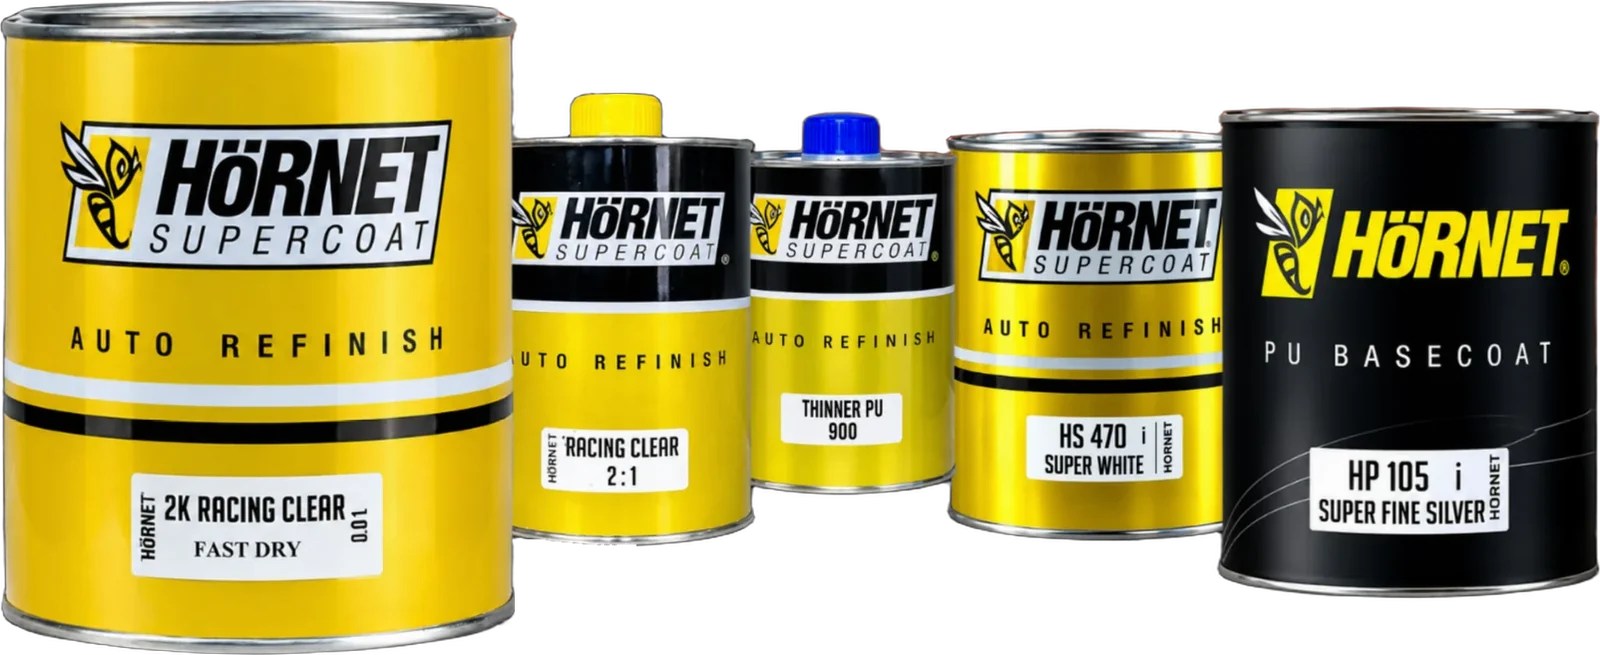
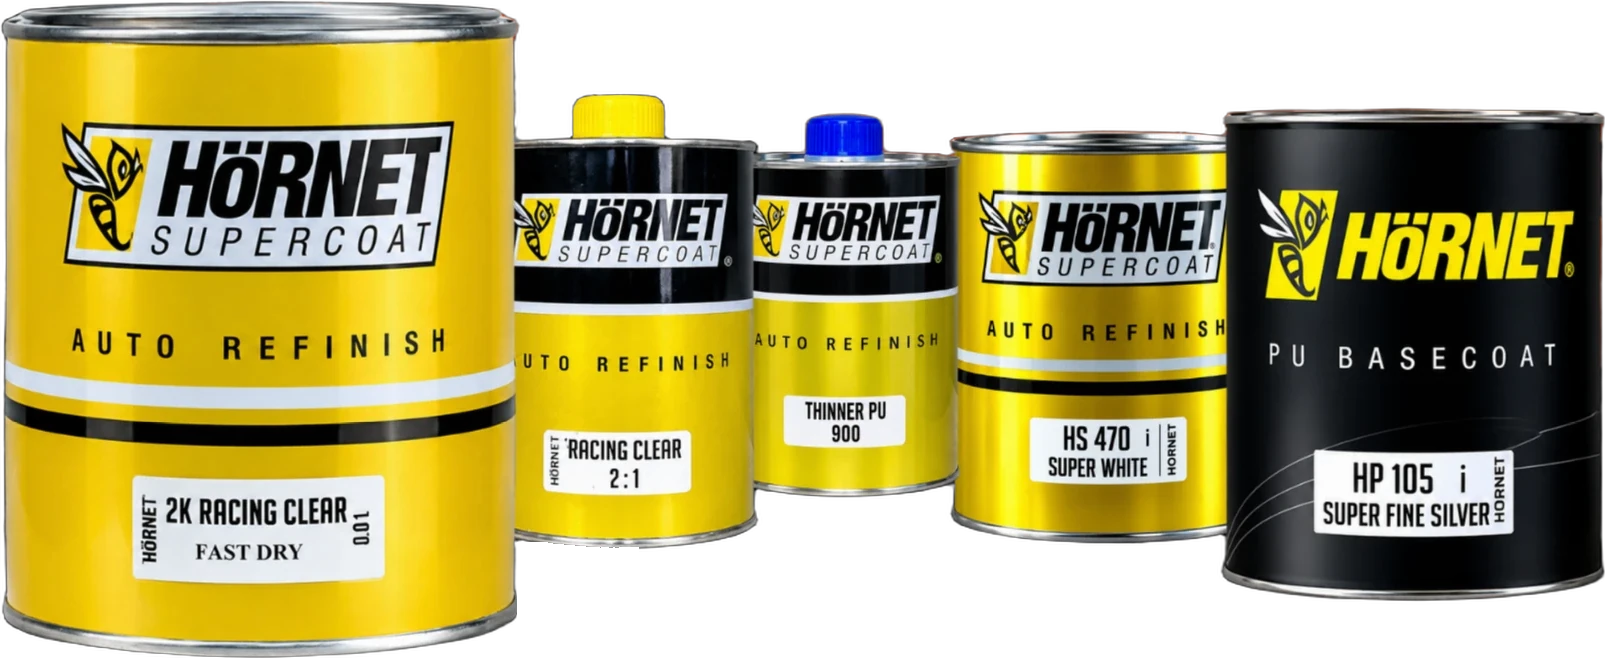
[development][1.20.1] sharper hero lineup with responsive sizes
Re-cut the cans from the higher-quality lineup photo at its full resolution
(1605px wide) and add 800/1200px copies (hero.lineup.smaller), served as a
srcSet so phones download the small file and retina screens the full one.

Claude-Session: https://claude.ai/code/session_01P7H63vv6HAtg1gbggxpW76

diff --git a/src/pages/home/Home.tsx b/src/pages/home/Home.tsx
@@ -72,6 +72,16 @@ const FEATURED = content.featuredProducts.map((code) => productByCode(code)!);
 // Product featured in the hero: its photo fills the hero frame
 const HERO_PRODUCT = productByCode(HERO.productCode);
 
+// Every size of the lineup cutout; the browser picks by screen width and pixel density
+const HERO_LINEUP_SRCSET = HERO.lineup
+    ? [...(HERO.lineup.smaller ?? []), { image: HERO.lineup.image, width: HERO.lineup.width }]
+          .map(({ image, width }) => `${image} ${width}w`)
+          .join(", ")
+    : undefined;
+// Drawn width of the cans: 106-110% of the stage, which is near full width on phones,
+// up to 720px from --large and 860px from --xxlarge (see .hero__stage)
+const HERO_LINEUP_SIZES = "(min-width: 1601px) 950px, (min-width: 961px) 800px, 100vw";
+
 // Empty grid cells after the last result, filled with ornaments. Three columns: the
 // big tile takes 4 cells, so n results use n + 3. Two columns: it's a full-width banner,
 // then the other n - 1 tiles in pairs. One column (phones) never has a gap.
@@ -132,6 +142,8 @@ function Home() {
                                     className="hero__stage-cans"
                                     src={HERO.lineup.image}
                                     alt={HERO.lineup.alt}
+                                    srcSet={HERO_LINEUP_SRCSET}
+                                    sizes={HERO_LINEUP_SIZES}
                                     width={HERO.lineup.width}
                                     height={HERO.lineup.height}
                                     fetchPriority="high"

diff --git a/src/content/index.ts b/src/content/index.ts
@@ -38,6 +38,8 @@ export interface HeroLineup {
     // Pixel size of the image, so the page reserves its space before it loads
     width: number;
     height: number;
+    // Downscaled copies of `image`, so phones don't download the full size
+    smaller?: { image: string; width: number }[];
     sticker: string;
 }
 
@@ -253,6 +255,12 @@ function validate(raw: unknown, codes: string[]): HomeContent {
         ["image", "alt", "sticker"].forEach((key) => text(lineup, key, "hero.lineup"));
         number(lineup, "width", "hero.lineup", false, 1);
         number(lineup, "height", "hero.lineup", false, 1);
+        if (lineup.smaller !== undefined) {
+            each(lineup.smaller, "hero.lineup.smaller", (item, path) => {
+                text(item, "image", path);
+                number(item, "width", path, false, 1);
+            });
+        }
     }
 
     each(root.features, "features", (item, path) => {

diff --git a/CLAUDE.md b/CLAUDE.md
@@ -4,7 +4,7 @@ This file provides guidance to Claude Code (claude.ai/code) when working with co
 
 ## Project
 
-Website for the **Dumons Coating – Hornet lineup** (a sub-product of Dumons Coating), served at `https://hornet.dumonscoating.com/home`. The main Dumons Coating site is a separate Vue project at `C:\Users\hanif\Documents\dumons-netlify` (`https://dumonscoating.com/home`); Hornet uses Roboto Condensed Black Italic for display text (headings, buttons, tags, stickers; closest match to the logo wordmark) and Helvetica (`"Helvetica Neue", Helvetica, Arial, sans-serif`) for body text. The display font is self-hosted (`public/assets/fonts/roboto-condensed-italic-latin.woff2`: variable weight, italic only, latin subset), declared with `@font-face` + preload in `render.tsx`'s `<head>` (not in CSS, so css-loader doesn't try to bundle the url), so every `--font-display` use must also set `font-style: italic`. The site is in Indonesian (`lang="id"`): a landing page (`/home`) and the product catalog (`/produk`, `src/pages/products`: page heading from `page` in `products.json`, every product as a card (1/2/3 columns, a row with fewer products than columns is centered rather than left with a hole), a "Bingung pilih?" band with WhatsApp/Shopee) with a detail page per product (`/produk/<slug>`, `src/pages/product-detail`, prerendered via `getStaticPaths`, unknown slugs render NotFound: square photo (pinned while scrolling from `--large`; stacked below it, capped to fit the screen, and a tap on a swatch scrolls it fully into view when it's cut off, while keyboard picks never scroll) with code sticker and a chip naming the chosen color, a color picker (`colors`: radio buttons drawn as skewed swatches; the chosen color's `image`, else the product's, else a placeholder filled with its `hex`), power meters, "Pesan via WhatsApp" prefilled with product + color, Shopee, then "Produk lainnya"; the picker is hidden when `colors` is empty). Every Shell page has the same site-wide header nav (`SITE_NAV` in `src/components/shell/nav.ts`): each item is a page (`path`, e.g. Produk -> `/produk`, highlighted on it and on pages under it, `aria-current` on the page itself) or a home section (`path` + `section`); Shell renders a section on the current page as a plain `#id` anchor (native smooth scroll) and everything else as a router `Link` (`/home#faq` from another page), home sections hidden while empty drop out, and there is a "Menu" panel below `--large`. Router links don't scroll on their own, so `ScrollToLocation` in `App.tsx` jumps to the top (or to the `#section`) after PUSH/REPLACE navigation and leaves POP (back/forward, first load, plain anchors) to the browser. Home has: a floating WhatsApp button (`src/components/whatsapp-float`: shown after the first screen, hidden while `#kontak` is in view), hero (`hero.lineup`: the transparent cutout of the whole can lineup, `public/assets/hornet-lineup.webp`, die-cut on a dark poster-style stage with yellow wedges, white slashes, an outlined "HÖRNET" and a yellow plinth, plus a sticker; without `lineup` it falls back to the product named in `hero.productCode` (a code from `products.json`): its `image`, or a hatched placeholder with the hornet mark until set; "Lihat produk" button scrolls to `#produk`), features, trust numbers (`stats`, ink band; PLACEHOLDER figures that must be replaced with real ones before launch; each counts up once on first view via `src/components/count-up`, which server-renders the final value; section hidden when empty), promotions (`promotions`: one poster image per promo, each linking to WhatsApp with its `alt` prefilled; placeholders in `public/assets/promos/` until the real posters exist; any count and any orientation via justified rows sized from each image's `width`/`height` (layout ratio clamped to 9:16..2.2:1, extremes shown whole on a hatched background), never cropped; section hidden when empty; opened by a scrolling ticker and the mascot), highlighted products (`featuredProducts`: exactly two codes, side by side from `--medium`, stacked on phones, then a "Lihat semua produk" button to `/produk`; cards are `src/components/product-card`, shared with `/produk`: a square image canvas (hatched hornet-mark placeholder until `image` is set), code sticker, 1..5 power meters, and a "Lihat detail" link to its detail page; the second product is a placeholder), customer reviews (`reviews`: quote, name, company, city, year, optional `photo` (initials until set) and `rating` (1..5 stars); any count, placeholders for now; section hidden when empty; carousel in `src/components/reviews`: one per slide on a scroll-snap track (native swipe), arrows + dots (a button/dot/autoplay move sets the index once and scroll events are ignored until the track arrives, so the counter never flickers; a one-slide move scrolls smoothly, a longer jump such as the wrap from last to first fades out, jumps and fades back in), autoplay every 7s that any manual switch stops for 3 minutes, off under `prefers-reduced-motion`; the band is dressed with halftone, a giant outlined quote, twinkling sparkles, chips and a spinning rubber stamp, and each card has a paper stack behind it and a numbered tape strip), results gallery (`results`: surface label, caption, the product code used and an optional `photo` of the coated surface (cropped to fill, hatched placeholder until set); the product's transparent `cutout` (hornet mark until set) stands die-cut on each photo; bento grid with the first tile big (2x2 on three columns, a 16:9 banner on two, plain on phones); the leftover cells of the last row get free-floating ornaments, no tile around them (mascot asking "Giliran mobilmu?", a "Kilau!" sticker on halftone, sparkles, chips), counted per layout in `Home.tsx`, so any count looks complete; section hidden when empty), partner workshops (`partners`, `#mitra`, yellow band: name, city, address, optional `mapsUrl`/`whatsappUrl`; PLACEHOLDERS for now; `src/components/partners` adds city filter chips and shows 9 until "Lihat semua"; "Jadi mitra" button opens WhatsApp with a prefilled message; section hidden when empty), FAQ (`faqs`, `#faq`: questions about the Hörnet line as a whole, since usage steps belong on each product's future detail page; answers marked PLACEHOLDER need real facts; native `<details>` accordion, plus a schema.org `FAQPage` JSON-LD script built from the same list; section hidden when empty), contact CTA (WhatsApp button, "Beli di Shopee" button, and WhatsApp/Shopee/email rows), footer (logo, Instagram and main-site links, copyright). Editable content lives in two JSON files (their `_petunjuk` notes explain editing them, in Indonesian); keep data out of the page components: `src/content/products.json` is the product catalog (`/produk` page copy and `products`, referenced everywhere else by `code`), `src/content/home.json` everything else on `/home` (contacts, hero copy, features, stats, ticker words, promotions, featured product codes, reviews, results, partners, FAQ). `src/content/index.ts` types both (`catalog`, `content`, `productByCode`) and validates them at load (unique codes and slugs, slug and `#rrggbb` formats; every code used in home.json must exist in the catalog): the build uses Babel (no type checking), so a missing/mistyped field throws while prerendering and fails the Netlify build with a message like `src/content/home.json: reviews #2.year harus berupa angka`. Feature icons are keys (`sparkle`/`drop`/`shield`/`spray`) mapped to SVG in `Home.tsx`. `/under-construction` is a standalone holding page (no Shell, English copy) and the only page on Netlify production deploys while `MAINTENANCE_MODE` is on (see Routing).
+Website for the **Dumons Coating – Hornet lineup** (a sub-product of Dumons Coating), served at `https://hornet.dumonscoating.com/home`. The main Dumons Coating site is a separate Vue project at `C:\Users\hanif\Documents\dumons-netlify` (`https://dumonscoating.com/home`); Hornet uses Roboto Condensed Black Italic for display text (headings, buttons, tags, stickers; closest match to the logo wordmark) and Helvetica (`"Helvetica Neue", Helvetica, Arial, sans-serif`) for body text. The display font is self-hosted (`public/assets/fonts/roboto-condensed-italic-latin.woff2`: variable weight, italic only, latin subset), declared with `@font-face` + preload in `render.tsx`'s `<head>` (not in CSS, so css-loader doesn't try to bundle the url), so every `--font-display` use must also set `font-style: italic`. The site is in Indonesian (`lang="id"`): a landing page (`/home`) and the product catalog (`/produk`, `src/pages/products`: page heading from `page` in `products.json`, every product as a card (1/2/3 columns, a row with fewer products than columns is centered rather than left with a hole), a "Bingung pilih?" band with WhatsApp/Shopee) with a detail page per product (`/produk/<slug>`, `src/pages/product-detail`, prerendered via `getStaticPaths`, unknown slugs render NotFound: square photo (pinned while scrolling from `--large`; stacked below it, capped to fit the screen, and a tap on a swatch scrolls it fully into view when it's cut off, while keyboard picks never scroll) with code sticker and a chip naming the chosen color, a color picker (`colors`: radio buttons drawn as skewed swatches; the chosen color's `image`, else the product's, else a placeholder filled with its `hex`), power meters, "Pesan via WhatsApp" prefilled with product + color, Shopee, then "Produk lainnya"; the picker is hidden when `colors` is empty). Every Shell page has the same site-wide header nav (`SITE_NAV` in `src/components/shell/nav.ts`): each item is a page (`path`, e.g. Produk -> `/produk`, highlighted on it and on pages under it, `aria-current` on the page itself) or a home section (`path` + `section`); Shell renders a section on the current page as a plain `#id` anchor (native smooth scroll) and everything else as a router `Link` (`/home#faq` from another page), home sections hidden while empty drop out, and there is a "Menu" panel below `--large`. Router links don't scroll on their own, so `ScrollToLocation` in `App.tsx` jumps to the top (or to the `#section`) after PUSH/REPLACE navigation and leaves POP (back/forward, first load, plain anchors) to the browser. Home has: a floating WhatsApp button (`src/components/whatsapp-float`: shown after the first screen, hidden while `#kontak` is in view), hero (`hero.lineup`: the transparent cutout of the whole can lineup, `public/assets/hornet-lineup.webp` at the source resolution plus `-800`/`-1200` copies listed in `smaller` and served as `srcSet`, die-cut on a dark poster-style stage with yellow wedges, white slashes, an outlined "HÖRNET" and a yellow plinth, plus a sticker; without `lineup` it falls back to the product named in `hero.productCode` (a code from `products.json`): its `image`, or a hatched placeholder with the hornet mark until set; "Lihat produk" button scrolls to `#produk`), features, trust numbers (`stats`, ink band; PLACEHOLDER figures that must be replaced with real ones before launch; each counts up once on first view via `src/components/count-up`, which server-renders the final value; section hidden when empty), promotions (`promotions`: one poster image per promo, each linking to WhatsApp with its `alt` prefilled; placeholders in `public/assets/promos/` until the real posters exist; any count and any orientation via justified rows sized from each image's `width`/`height` (layout ratio clamped to 9:16..2.2:1, extremes shown whole on a hatched background), never cropped; section hidden when empty; opened by a scrolling ticker and the mascot), highlighted products (`featuredProducts`: exactly two codes, side by side from `--medium`, stacked on phones, then a "Lihat semua produk" button to `/produk`; cards are `src/components/product-card`, shared with `/produk`: a square image canvas (hatched hornet-mark placeholder until `image` is set), code sticker, 1..5 power meters, and a "Lihat detail" link to its detail page; the second product is a placeholder), customer reviews (`reviews`: quote, name, company, city, year, optional `photo` (initials until set) and `rating` (1..5 stars); any count, placeholders for now; section hidden when empty; carousel in `src/components/reviews`: one per slide on a scroll-snap track (native swipe), arrows + dots (a button/dot/autoplay move sets the index once and scroll events are ignored until the track arrives, so the counter never flickers; a one-slide move scrolls smoothly, a longer jump such as the wrap from last to first fades out, jumps and fades back in), autoplay every 7s that any manual switch stops for 3 minutes, off under `prefers-reduced-motion`; the band is dressed with halftone, a giant outlined quote, twinkling sparkles, chips and a spinning rubber stamp, and each card has a paper stack behind it and a numbered tape strip), results gallery (`results`: surface label, caption, the product code used and an optional `photo` of the coated surface (cropped to fill, hatched placeholder until set); the product's transparent `cutout` (hornet mark until set) stands die-cut on each photo; bento grid with the first tile big (2x2 on three columns, a 16:9 banner on two, plain on phones); the leftover cells of the last row get free-floating ornaments, no tile around them (mascot asking "Giliran mobilmu?", a "Kilau!" sticker on halftone, sparkles, chips), counted per layout in `Home.tsx`, so any count looks complete; section hidden when empty), partner workshops (`partners`, `#mitra`, yellow band: name, city, address, optional `mapsUrl`/`whatsappUrl`; PLACEHOLDERS for now; `src/components/partners` adds city filter chips and shows 9 until "Lihat semua"; "Jadi mitra" button opens WhatsApp with a prefilled message; section hidden when empty), FAQ (`faqs`, `#faq`: questions about the Hörnet line as a whole, since usage steps belong on each product's future detail page; answers marked PLACEHOLDER need real facts; native `<details>` accordion, plus a schema.org `FAQPage` JSON-LD script built from the same list; section hidden when empty), contact CTA (WhatsApp button, "Beli di Shopee" button, and WhatsApp/Shopee/email rows), footer (logo, Instagram and main-site links, copyright). Editable content lives in two JSON files (their `_petunjuk` notes explain editing them, in Indonesian); keep data out of the page components: `src/content/products.json` is the product catalog (`/produk` page copy and `products`, referenced everywhere else by `code`), `src/content/home.json` everything else on `/home` (contacts, hero copy, features, stats, ticker words, promotions, featured product codes, reviews, results, partners, FAQ). `src/content/index.ts` types both (`catalog`, `content`, `productByCode`) and validates them at load (unique codes and slugs, slug and `#rrggbb` formats; every code used in home.json must exist in the catalog): the build uses Babel (no type checking), so a missing/mistyped field throws while prerendering and fails the Netlify build with a message like `src/content/home.json: reviews #2.year harus berupa angka`. Feature icons are keys (`sparkle`/`drop`/`shield`/`spray`) mapped to SVG in `Home.tsx`. `/under-construction` is a standalone holding page (no Shell, English copy) and the only page on Netlify production deploys while `MAINTENANCE_MODE` is on (see Routing).
 
 **There is no backend.** Production is a static site on Netlify (prerendered at build time); Express is only used for local dev/`npm start`. Don't add an `/api` proxy, API client, or data-fetching/store layer unless asked.
 
